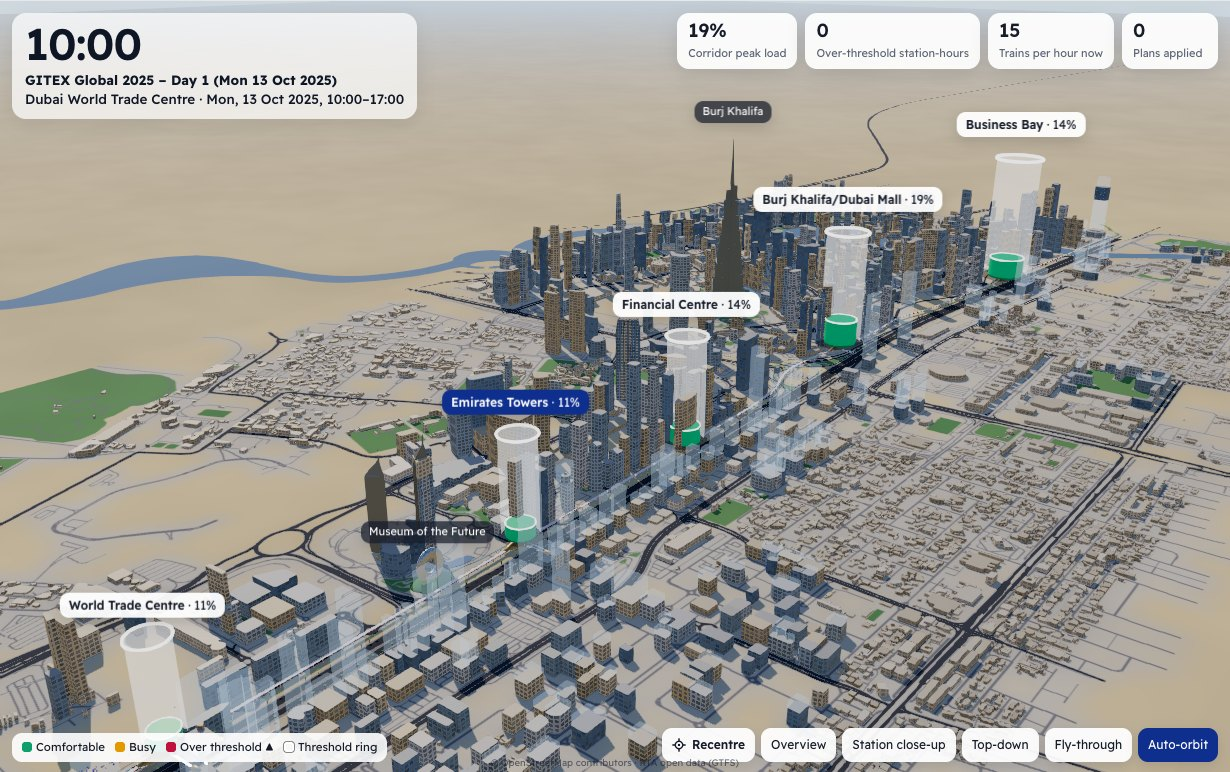
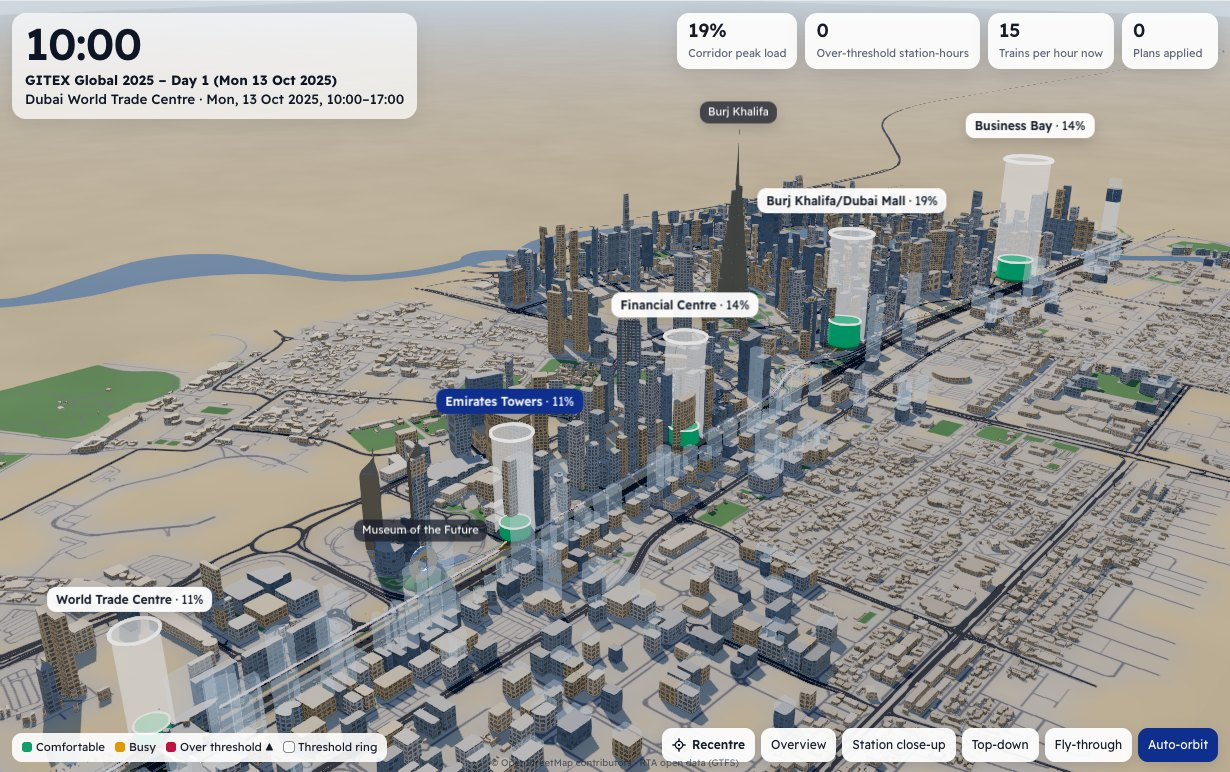
web: capacity glass fades when the camera passes beside a column; after captures refreshed

diff --git a/apps/web/src/components/twin/Live.tsx b/apps/web/src/components/twin/Live.tsx
@@ -62,7 +62,9 @@ export function Columns({ places }: { places: StationPlace[] }) {
       const beat = s.reducedMotion ? 0.45 : 0.35 + 0.25 * Math.sin(live.animT * 6);
       // self-lit so the colour reads the same at noon, golden hour and night
       m.bar.emissive.copy(col).multiplyScalar(over ? beat + 0.25 : 0.42 + live.night * 0.3 + live.golden * 0.12);
-      m.glass.opacity = 0.3 - 0.14 * live.night;
+      // the capacity glass fades out when the camera passes right beside a column (fly-through), the bar stays
+      const near = Math.max(0, Math.min(1, (camera.position.distanceTo(g.position) - 140) / 320));
+      m.glass.opacity = (0.3 - 0.14 * live.night) * near;
       m.ring.color.setHex(over ? 0xffd9e2 : 0xffffff);
       const ph = s.reducedMotion ? 0.35 : (live.animT * 0.8) % 1;
       m.pulse.opacity = over ? 0.55 * (1 - ph) : 0;

diff --git a/docs/metrics.md b/docs/metrics.md
@@ -24,7 +24,7 @@ Budget ≥ 50 fps: **met** on this machine. The browser caps at the display refr
 | | Average fps | Minimum |
 |---|---|---|
 | Before (`before_fps.json`, 2026-11-12T07:15:41.333Z) | 60 | 60 |
-| After (`after_fps.json`, 2026-11-12T07:30:34.213Z) | 60 | 60 |
+| After (`after_fps.json`, 2026-11-12T07:38:46.372Z) | 60 | 60 |
 
 ## Offline
 Source: `eval/results/ui/network.json` (2026-11-12T07:34:34.246Z).
